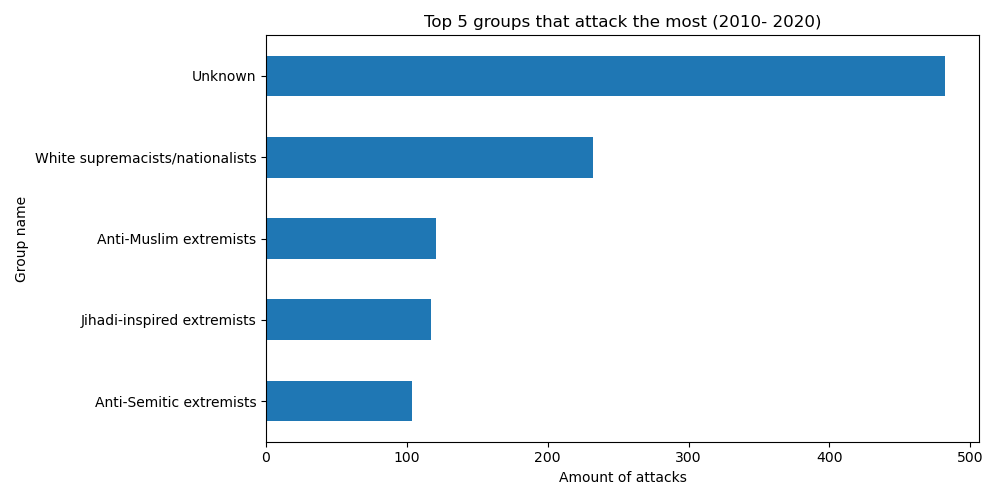
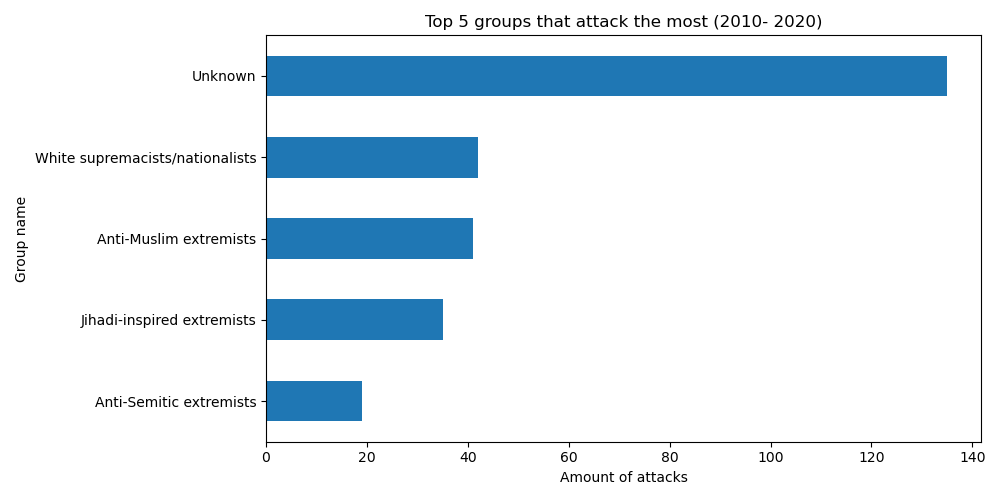
created bars for attacks per group

diff --git a/src/main.py b/src/main.py
@@ -37,7 +37,8 @@ if __name__ == "__main__":
         (usa_df["doubtterr"] == 0) | (usa_df["doubtterr"] == -9))
     seventy_eighty_perc = (usa_df[query]["year"].value_counts(
         True) * 100).sort_index()[:11].sum()
-    top_5_timeline = usa_df[query].groupby(["gname", "year"])["year"].count()
+    top_5_df = usa_df[query]
+    top_5_timeline = top_5_df.groupby(["gname", "year"])["year"].count()
 
     # create timeline graph for 1970 - 2020
     hp.create_timeline(top_5_timeline, groups, name="tot_timeline", text=True,
@@ -48,11 +49,28 @@ if __name__ == "__main__":
     query = usa_df["gname"].isin(groups) & (
         ((usa_df["doubtterr"] == 0) | (usa_df["doubtterr"] == -9)) &
         (usa_df["year"] >= 2010))
-    top_modern_timeline = usa_df[query].groupby(["gname", "year"])[
+    top_mod_df = usa_df[query]
+    top_modern_timeline = top_mod_df.groupby(["gname", "year"])[
         "year"].count()
 
     # create timeline for 2010 - 2020
     hp.create_timeline(top_modern_timeline, groups, name="mod_timeline",
                        title="Activity over time (2010 - 2020)")
 
-    
+    # most used attack type from 1970 - 2020
+    attacks = top_5_df.groupby("attacktype1_txt").size().sort_values()
+
+    hp.create_bar_plot(attacks, title="All groups 1970 - 2020", ylabel="Attack type",
+                       xlabel="Amount of attacks", name="tot_attacks")
+
+
+    # Creating bar graphs for attacks used by each group
+    attack_types = top_5_df["attacktype1_txt"].unique()
+    groups = top_5_total.index.values
+    types_per_group = top_5_df.groupby(["gname", "attacktype1_txt"]).size()
+    for idx, group in enumerate(groups):
+        name = group.split("/")[0]
+        df = types_per_group[group].sort_values()
+        hp.create_bar_plot(
+            df, title=f"{group} 1970 - 2020", ylabel="Attack Type", xlabel="Amount",
+            name=f"tot_{name}")

diff --git a/src/helper.py b/src/helper.py
@@ -42,9 +42,9 @@ def create_bar_plot(df, title=None, ylabel=None, xlabel=None, name="Bar"):
         Returns:
             None
     """
+    fig, ax = plt.subplots(figsize=(10, 5))
     df.plot.barh(title=title,
-                 ylabel=ylabel, xlabel=xlabel,
-                 figsize=(10, 5))
+                 ylabel=ylabel, xlabel=xlabel)
     plt.tight_layout()
     plt.savefig(f"./img/{name}.png")
 
